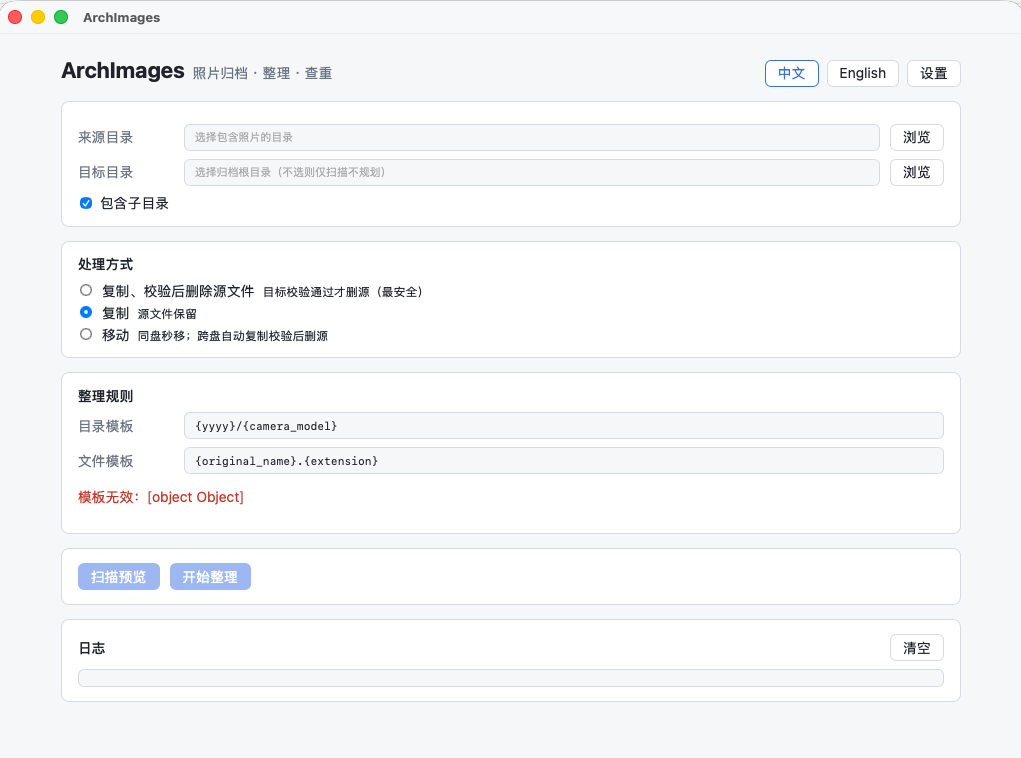
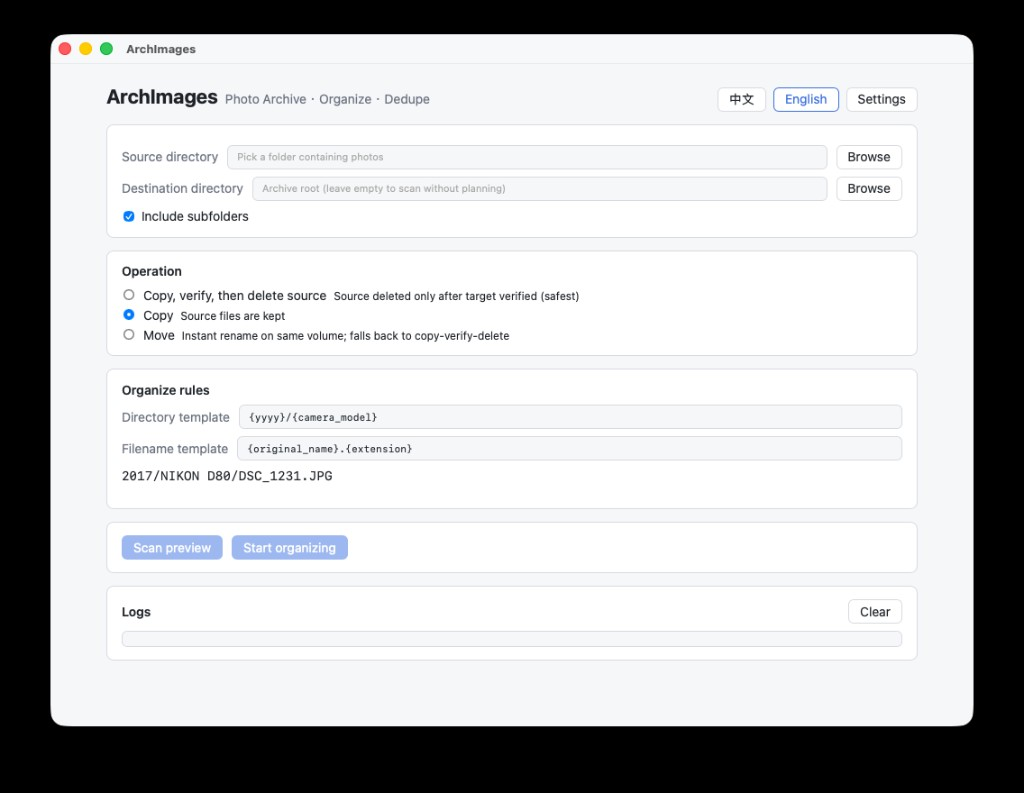
Update README with English UI screenshots
Replace placeholder screenshot with two actual English-version screenshots:
- screenshot-main.png: main interface showing template configuration and preview
- screenshot-settings.png: advanced settings dialog (duplicate mode, concurrency, GPS API key)

Changed region(s): [[0.0, 0.0, 1.0, 1.0], [0.8198, 0.1517, 0.9109, 0.2731], [0.8805, 0.8496, 0.9109, 0.8799]]

diff --git a/README.md b/README.md
@@ -4,7 +4,13 @@ A cross-platform desktop application for photo archiving, organizing, renaming, 
 
 **Design principle: data safety first, performance second.** Scanning and planning never write to disk. Source files are deleted only after all four guarantees pass: copy complete, target exists, size matches, hash matches. A full transaction journal enables crash recovery.
 
-![ArchImages Screenshot](docs/screenshot-main.png)
+![ArchImages Main UI](docs/screenshot-main.png)
+
+*Main interface — select source/destination, configure templates, preview before organizing.*
+
+![ArchImages Settings](docs/screenshot-settings.png)
+
+*Advanced settings — duplicate detection mode, concurrency, EXIF fallback, GPS reverse geocoding with secure API key storage.*
 
 ## Features
 
